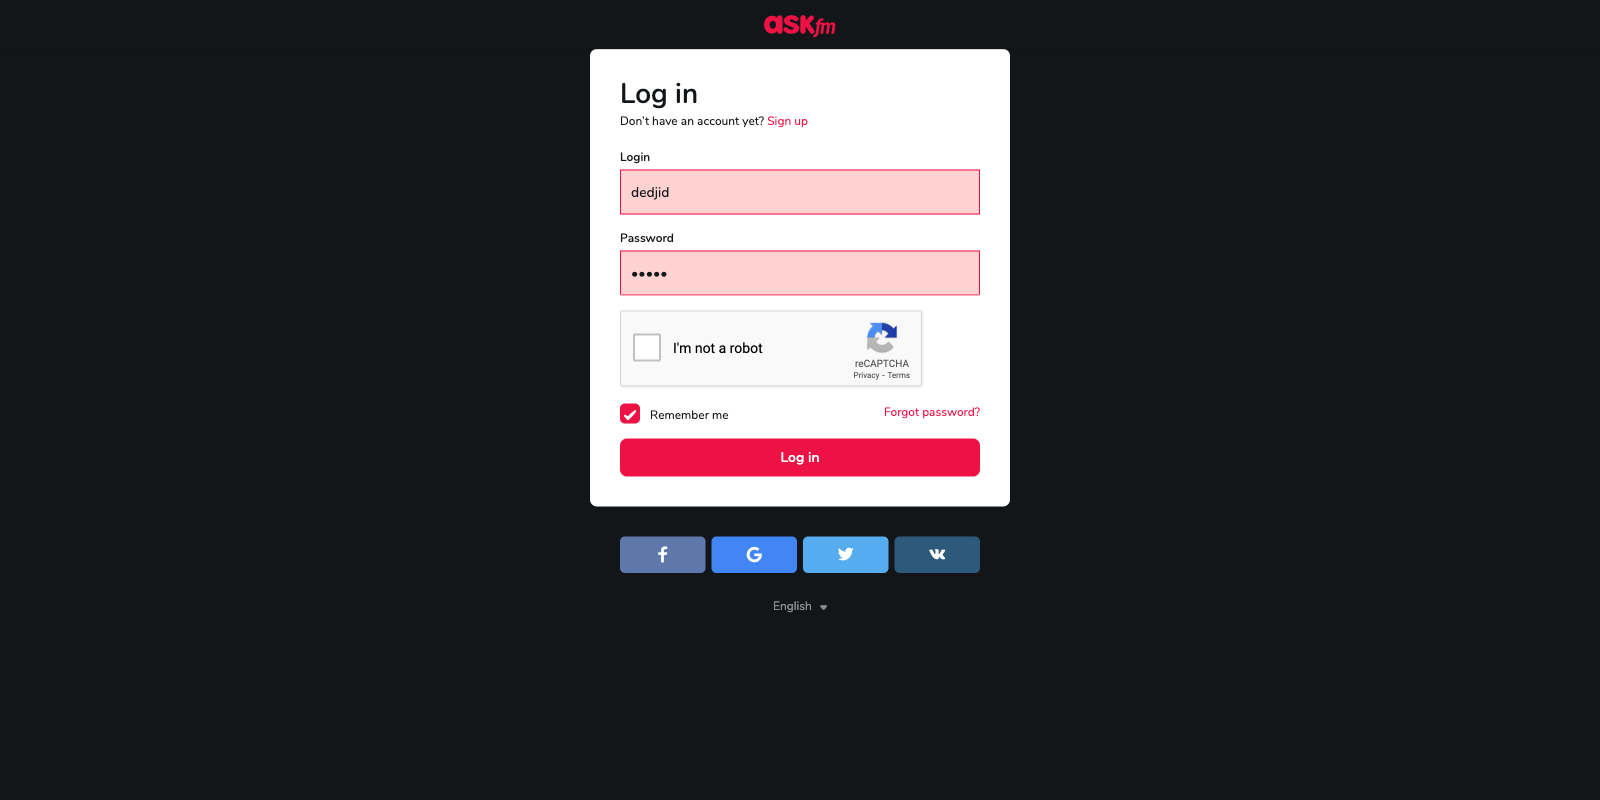
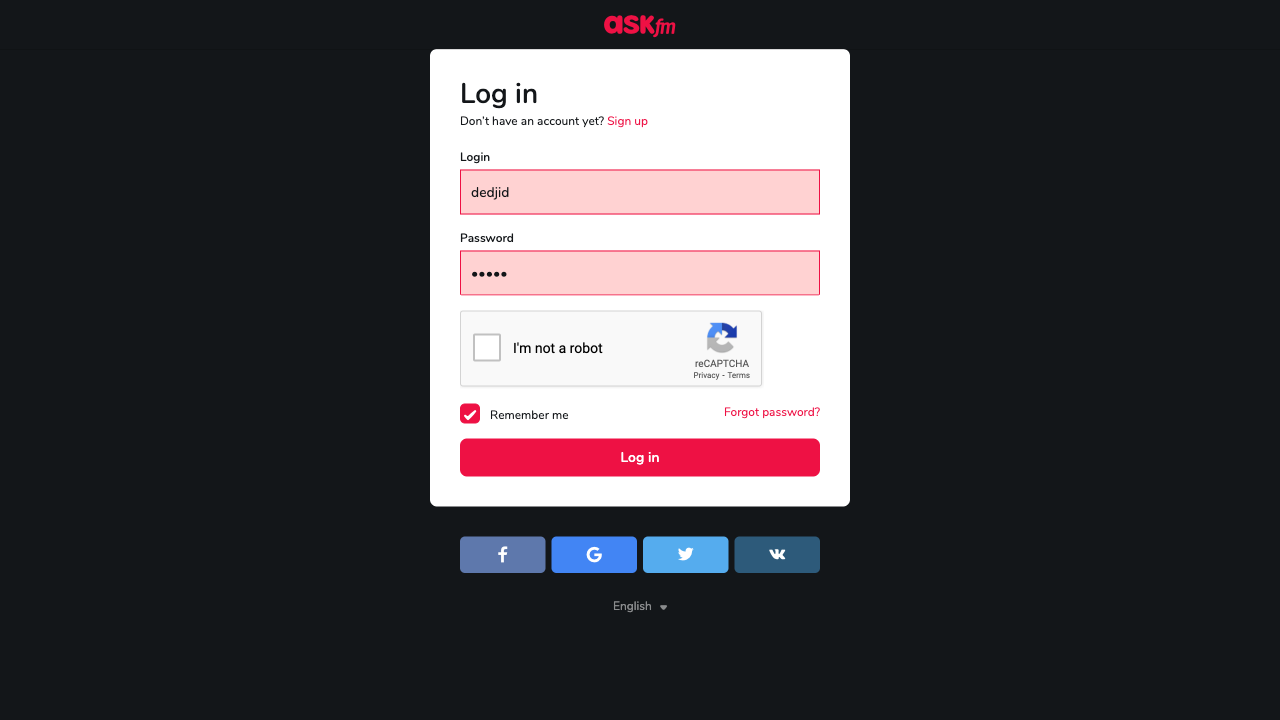
initial commit

Changed region(s): [[0.3125, 0.0, 0.6875, 0.7944], [0.4688, 0.825, 0.5, 0.8556]]

diff --git a/test/test.py b/test/test.py
@@ -1,9 +1,14 @@
+import ast
 import os
 from playwright.sync_api import expect
 
 import pytest
 
 class Tests:
+    @staticmethod
+    def clear_input(page, locator):
+        return page.locator(locator).fill("")
+
     # @pytest.mark.this
     def test_login(self, page):
         assert "https://ask.fm/login" in page.url
@@ -14,12 +19,14 @@ class Tests:
         page.wait_for_timeout(4000)
         page.screenshot(path="./screenshots/private_cabinet.png")
         page.wait_for_timeout(3000)
+        page.reload()
         test = page.locator(selector="pb-3.p-4")
         if not page.locator(selector=".captcha-container"):
             assert "account/wall" in page.url, "URL WRONG"
             assert expect(page.locator(selector="pb-3.p-4")).to_be_visible(), "Ask block is not recognized on page!"
             assert "Стена" in page.title(), f"Page title is wrong - '{page.title()}'"
 
+    # @pytest.mark.this
     @pytest.mark.parametrize("login, pw", [("dimasik", "ehfwhie"), ("alinchik", "5327632"), pytest.param("dedjid", "cneui", marks=pytest.mark.xfail)])
     def test_invalid_login(self, page, login, pw):
         assert "https://ask.fm/login" in page.url
@@ -30,5 +37,28 @@ class Tests:
         page.wait_for_timeout(5000)
         page.screenshot(path="./screenshots/private_cabinet.png")
         assert page.locator(selector="p.rsp-container"), f"Invalid creds block admonition is not recognized on page!"
+
+    @pytest.mark.only
+    def test_go_back_forward(self, page):
+        page.get_by_role("link", name="Sign up").click()
+        page.wait_for_timeout(1000)
+        page.go_back()
+        page.wait_for_timeout(1000)
+        page.go_forward()
+        page.wait_for_timeout(1000)
+        page.go_back()
+        page.type(selector="#user_name", text="something..", delay=20)
+        page.wait_for_timeout(7000)
+        page.reload()
+        # self.clear_input(page=page, locator="#user_name")
+        print(page.locator("input#user_name").input_value())
+        # page.wait_for_timeout(2000)
+        # page.click(selector="//input[@type='submit']")
+        # page.wait_for_timeout(2000)
+        # admonition = page.locator(selector=".flash-message")
+        # assert admonition.is_visible(), "Not visible"
+        # print(admonition.inner_text())
+        # assert "You forgot to fill" in admonition.inner_text(), "Text is absent!"
+
 
 

diff --git a/fixtures/swag_labs.py b/fixtures/swag_labs.py
@@ -1,0 +1,25 @@
+import pytest
+
+
+@pytest.fixture
+def browser_login(browser):
+    context = browser.new_context()
+    page = context.new_page()
+    page.goto(url="https://www.saucedemo.com/")
+    page.locator("#user-name").type("standard_user", delay=20)
+    page.locator("#password").type("secret_sauce", delay=20)
+    page.click(selector="#login-button")
+    page.wait_for_timeout(2000)
+    context.storage_state(path="state.json")
+    yield page
+    context.close()
+
+
+@pytest.fixture
+def browser_saved_login(browser_login):
+    context = browser_login.context.browser.new_context(storage_state="state.json")
+    page = context.new_page()
+    page.goto(url="https://www.saucedemo.com/inventory-item.html?id=4")
+    yield page
+
+

diff --git a/test_swlbs/test_swag_labs.py b/test_swlbs/test_swag_labs.py
@@ -1,0 +1,15 @@
+
+
+def test_user_is_logged_in(browser_login):
+    page = browser_login
+    assert page.locator("#inventory-container"), "Not visible!"
+
+def test_user_logout(browser_login):
+    page = browser_login
+    page.click(".bm-burger-button")
+    page.click("#logout_sidebar_link")
+    assert page.locator("login-button"), "Login button is not visible!"
+
+def test_product_item(browser_saved_login):
+    browser_saved_login.wait_for_timeout(4500)
+    assert browser_saved_login.locator("#add-to-cart-sauce-labs-backpack", has_text="Add to cart").is_visible()

diff --git a/fixtures/browser.py b/fixtures/browser.py
@@ -35,7 +35,7 @@ import pytest
 def page(browser):
     context = browser.new_context()
     page = context.new_page()
-    page.set_viewport_size({"width":1600, "height":800})
+    # page.set_viewport_size({"width":1600, "height":800})
     page.goto(url="https://ask.fm/login")
     yield page
     context.close()

diff --git a/test_swlbs/conftest.py b/test_swlbs/conftest.py
@@ -1,0 +1,1 @@
+from fixtures.swag_labs import *
